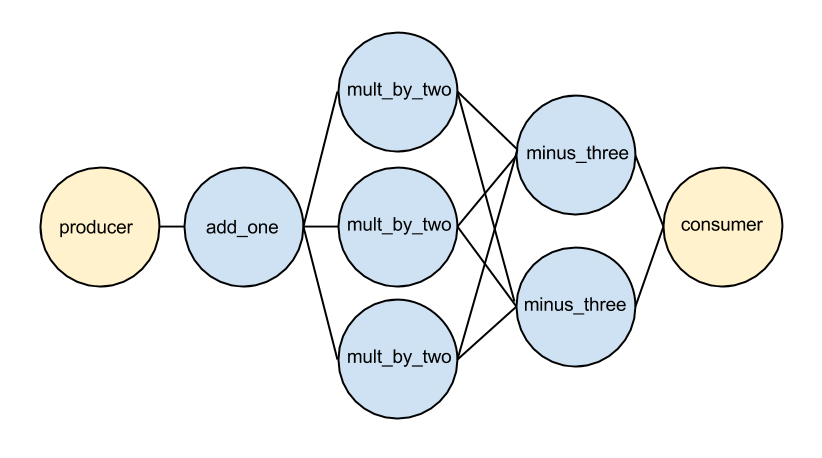
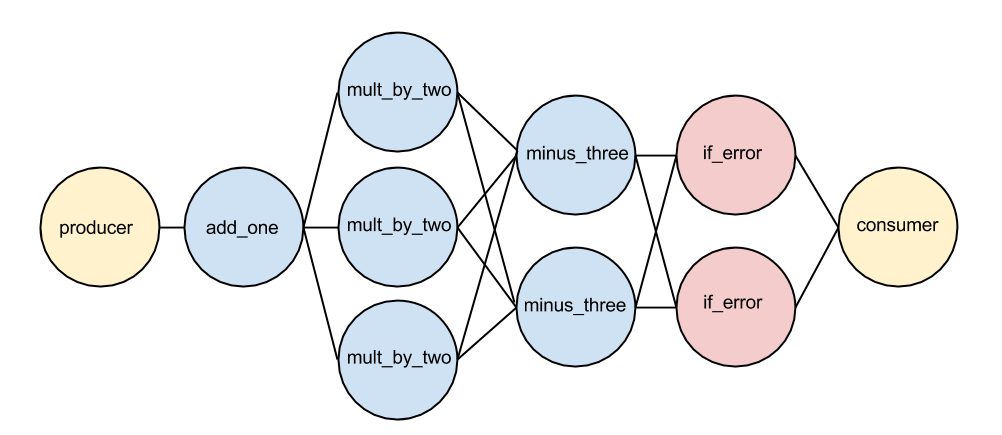
Add Error handling to README

diff --git a/README.md b/README.md
@@ -16,6 +16,7 @@ Flowex DSL allows you to easily create "pipelines" of Elixir GenStages.
 - [Flowex magic!](#flowex-magic!)
 - [Run the pipeline](#run-the-pipeline)
 - [How it works](#how-it-works)
+- [Error handling](#error-handling)
 - [Synchronous and asynchronous calls](#synchronous-and-asynchronous-calls)
 - [Bottlenecks](#bottlenecks)
 - [Module pipelines](#module-pipelines)
@@ -125,7 +126,8 @@ end
 ```
 We also renamed the module to `FunPipeline` because we are going to create "Flowex pipeline".
 `Flowex.Pipeline` extend our module, so we have:
-- `pipe` macros to define which function evaluation should be placed into separate GenStage;
+- `pipe` macro to define which function evaluation should be placed into separate GenStage;
+- `error_pipe` macro to define function which will be called if error occurs;
 - `start` and `stop` functions to create and destroy pipelines;
 - `call` function to run pipeline computations synchronously.
 - `cast` function to run pipeline computations asynchronously.
@@ -143,6 +145,7 @@ pipeline = FunPipeline.start(opts)
 ```
 What happened:
 - Three GenStages were started - one for each of the function in pipeline. Each of GenStages is `:producer_consumer`;
+- One additional GenStage for error processing is started (it is also `:producer_consumer`);
 - Runs 'producer' and 'consumer' GenStages for input and output;
 - All the components are placed under Supervisor.
 
@@ -198,11 +201,55 @@ Flowex.Client.cast(client_pid, %FunPipeline{number: 2})
 ## How it works
 The following figure demonstrates the way data follows:
 ![alt text](figures/pipeline_with_client.png "How it works")
-The things happen when you call `Flowex.Client.call`:
-- `self` process makes synchronous call to the client gen_server with `%FunPipeline{number: 2}` struct
-- the client makes synchronous call 'FunPipeline.call(pipeline, %FunPipeline{number: 2})'
-- the struct is wrapped into `%Flowex.IP{}` struct and begins its asynchronous journey from one GenStage to another
+Note: `error_pipe` is not on the picture in order to save place.
+
+The things happen when you call `Flowex.Client.call` (synchronous):
+- `self` process makes synchronous call to the client gen_server with `%FunPipeline{number: 2}` struct;
+- the client makes synchronous call 'FunPipeline.call(pipeline, %FunPipeline{number: 2})';
+- the struct is wrapped into `%Flowex.IP{}` struct and begins its asynchronous journey from one GenStage to another;
 - when the consumer receives the Information Packet (IP), it sends it back to the client which sends it back to the caller process.
+
+The things happen when you `cast` pipeline (asynchronous):
+- `self` process makes `cast` call to the client and immediately receives `:ok`
+- the client makes `cast` to pipeline;
+- the struct is wrapped into `%Flowex.IP{}` struct and begins its asynchronous journey from one GenStage to another;
+- consumer does not send data back, because this is `cast`
+
+## Error handling
+What happens when error occurs in some pipe?
+
+The pipeline behavior is like Either monad. If everything ok, each 'pipe' function will be called one by one and result data will skip the 'error_pipe'.
+But if error happens, for example, in the first pipe, the `:mult_by_two` and `:minus_three` functions will not be called.
+IP will bypass to the 'error_pipe'. If you don't specify 'error_pipe' flowex will add the default one:
+```elixir
+def handle_error(error, _struct, _opts) do
+  raise error
+end
+```
+which just raises an exception.
+
+To specify the 'error' function use `error_pipe` macro:
+```elixir
+defmodule FunPipeline do
+  use Flowex.Pipeline
+  # ...
+  error_pipe :if_error
+
+
+  def if_error(error, struct, opts) do
+    # error is %Flowex.StageError{}
+    # with :message, :pipe, and :struct fields
+    %{struct | number: :oops}
+  end
+  #...
+end
+```
+You can specify only one error_pipe!
+Note: The 'error_pipe' function accepts three arguments.
+The first argument is a `%Flowex.StageError{}` structure which has the following fields:
+- `:message` - error message;
+- `:pipe` - is `{module, function, opts}` tuple containing info about the pipe where error occured;
+- `:struct` - the input of the pipe.
 
 ## Synchronous and asynchronous calls
 Note, that `call` function on pipeline module or `Flowex.Client` is synchronous. While communication inside the pipeline is asynchronous:
@@ -226,12 +273,14 @@ defmodule FunPipeline do
   pipe :add_one, 1
   pipe :mult_by_two, 3
   pipe :minus_three, 2
+  error_pipe :if_error, 2
 
   # ...
 end
 ```
 And the pipeline will look like on the figure below:
 ![alt text](figures/complex_pipeline.png "Group of clients")
+
 
 ## Module pipelines
 One can create reusable 'pipe' - module which implements init and call functions.
@@ -244,6 +293,7 @@ defmodule ModulePipeline do
   pipe AddOne, 1
   pipe MultByTwo, 3
   pipe MinusThree, 2
+  error_pipe IfError, 2
 end
 
 #pipes
@@ -280,7 +330,18 @@ defmodule MinusThree do
     %{struct | number: new_number, c: opts.c}
   end
 end
+
+defmodule IfError do
+  def init(opts) do
+    %{opts | c: :minus_three}
+  end
+
+  def call(_error, struct, _opts) do
+    %{struct | number: :oops}
+  end
+end
 ```
+
 Of course, one can combine module and functional 'pipes'!
 
 ## Contributing
